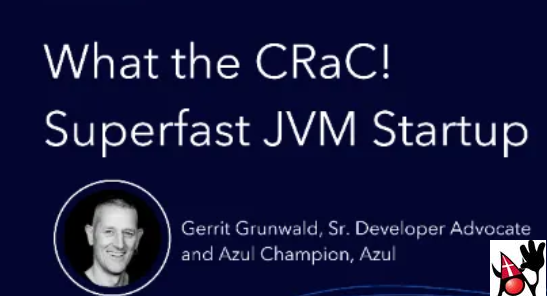
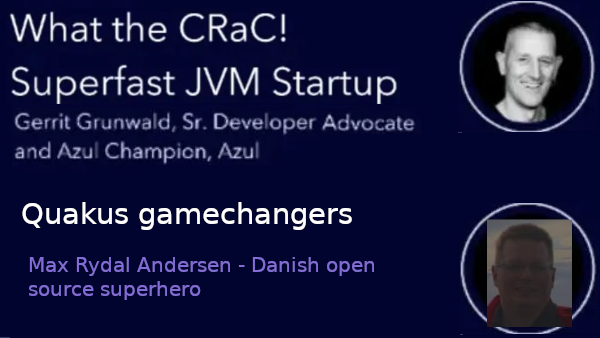
Tilføj Crac møde 2024

diff --git a/_posts/2024/2024-03-05-crac.md b/_posts/2024/2024-03-05-crac.md
@@ -24,7 +24,9 @@ In a world where microservices are more and more a standard architecture for Jav
 
 This session will give you a short overview of the CRaC project and shows some results from a proof of concept implementation.
 
-* 18.00 En bid pizza og måske lidt mere teknik
+* 18.00 En bid pizza og Max Rydahl Andersen - Quarkus gamechangers
+
+Fast startup and low memory usage is not just important for an efficient and economically production system. It is also a key ingredient in making Developers productive while writing the application. Come hear the recipe used to bring developer joy and how Quarkus flips around many of the assumptions there exist on how fast or slow(?) Java is.
 
 
 Med venlig hilsen
